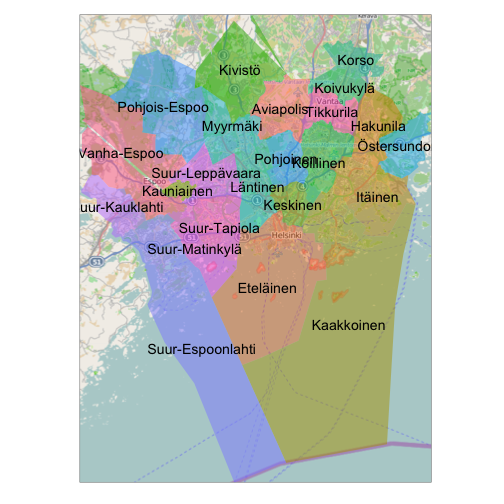
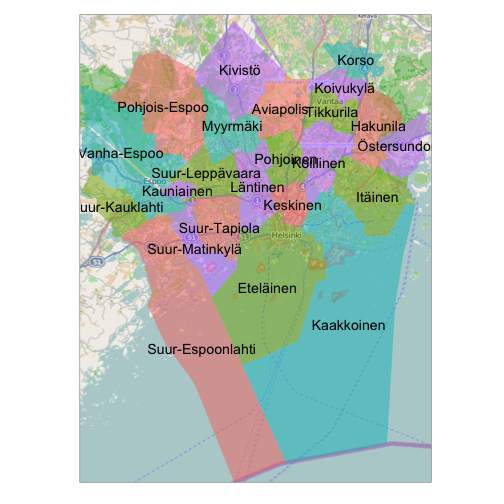
Fixed ggplot2 example in tutorial

diff --git a/vignettes/fingis_tutorial.md b/vignettes/fingis_tutorial.md
@@ -116,7 +116,7 @@ sp.suuralue.piste <- get_Helsinki_aluejakokartat(map.specifier = "suuralue_piste
 
 ```
 ## OGR data source with driver: KML 
-## Source: "/var/folders/6h/s1qsd2q557nfghh2vmc77m2c0000gn/T//RtmpTNoMHN/PKS_suuralue_piste.kml", layer: "pks_suuralue_piste"
+## Source: "/var/folders/6h/s1qsd2q557nfghh2vmc77m2c0000gn/T//RtmpLgunVW/PKS_suuralue_piste.kml", layer: "pks_suuralue_piste"
 ## with 23 features and 2 fields
 ## Feature type: wkbPoint with 3 dimensions
 ```
@@ -146,21 +146,10 @@ library(ggmap)
 hel.bbox <- as.vector(sp.suuralue@bbox)
 # Get map using openstreetmap
 hel.map <- ggmap::get_map(location = hel.bbox, source = "osm")
-```
-
-```
-## Warning: cannot open: HTTP status was '503 Service Unavailable'
-```
-
-```
-## Error: map grabbing failed - see details in ?get_openstreetmap.
-```
-
-```r
 # Plot transparent districts on top the background map
-ggmap(hel.map) + geom_polygon(data = df.suuralue, aes(x = long, y = lat, fill = Name), 
-    alpha = 0.5) + geom_text(data = df.suuralue.piste, aes(x = long, y = lat, 
-    label = Name)) + theme(legend.position = "none")
+ggmap(hel.map) + geom_polygon(data = df.suuralue, aes(x = long, y = lat, fill = COL, 
+    group = Name), alpha = 0.5) + geom_text(data = df.suuralue.piste, aes(x = long, 
+    y = lat, label = Name)) + theme(legend.position = "none")
 ```
 
 ![plot of chunk hkk-suuralue4](figure/hkk-suuralue4.png) 
@@ -460,8 +449,8 @@ sessionInfo()
 ## [1] stats     graphics  grDevices utils     datasets  methods   base     
 ## 
 ## other attached packages:
-##  [1] mapproj_1.2-2      maps_2.3-6         ggmap_2.3         
-##  [4] rgeos_0.3-4        maptools_0.8-29    knitr_1.5         
+##  [1] mapproj_1.2-2      maps_2.3-6         rgeos_0.3-4       
+##  [4] maptools_0.8-29    knitr_1.5          ggmap_2.3         
 ##  [7] fingis_0.9.10      gcolor_1.0         RColorBrewer_1.0-5
 ## [10] XML_3.95-0.2       ggplot2_0.9.3.1    spdep_0.5-71      
 ## [13] Matrix_1.1-2-2     RCurl_1.95-4.1     bitops_1.0-6      
@@ -474,12 +463,11 @@ sessionInfo()
 ##  [7] dichromat_2.0-0     digest_0.6.4        evaluate_0.5.1     
 ## [10] foreign_0.8-60      formatR_0.10        grid_3.0.3         
 ## [13] gtable_0.1.2        labeling_0.2        lattice_0.20-27    
-## [16] LearnBayes_2.12     markdown_0.6.4      MASS_7.3-30        
-## [19] munsell_0.4.2       nlme_3.1-115        plyr_1.8.1         
-## [22] png_0.1-7           proto_0.3-10        Rcpp_0.11.1        
-## [25] reshape2_1.2.2      RgoogleMaps_1.2.0.5 RJSONIO_1.0-3      
-## [28] scales_0.2.3        splines_3.0.3       stringr_0.6.2      
-## [31] tools_3.0.3
+## [16] LearnBayes_2.12     MASS_7.3-30         munsell_0.4.2      
+## [19] nlme_3.1-115        plyr_1.8.1          png_0.1-7          
+## [22] proto_0.3-10        Rcpp_0.11.1         reshape2_1.2.2     
+## [25] RgoogleMaps_1.2.0.5 RJSONIO_1.0-3       scales_0.2.3       
+## [28] splines_3.0.3       stringr_0.6.2       tools_3.0.3
 ```
 
 
